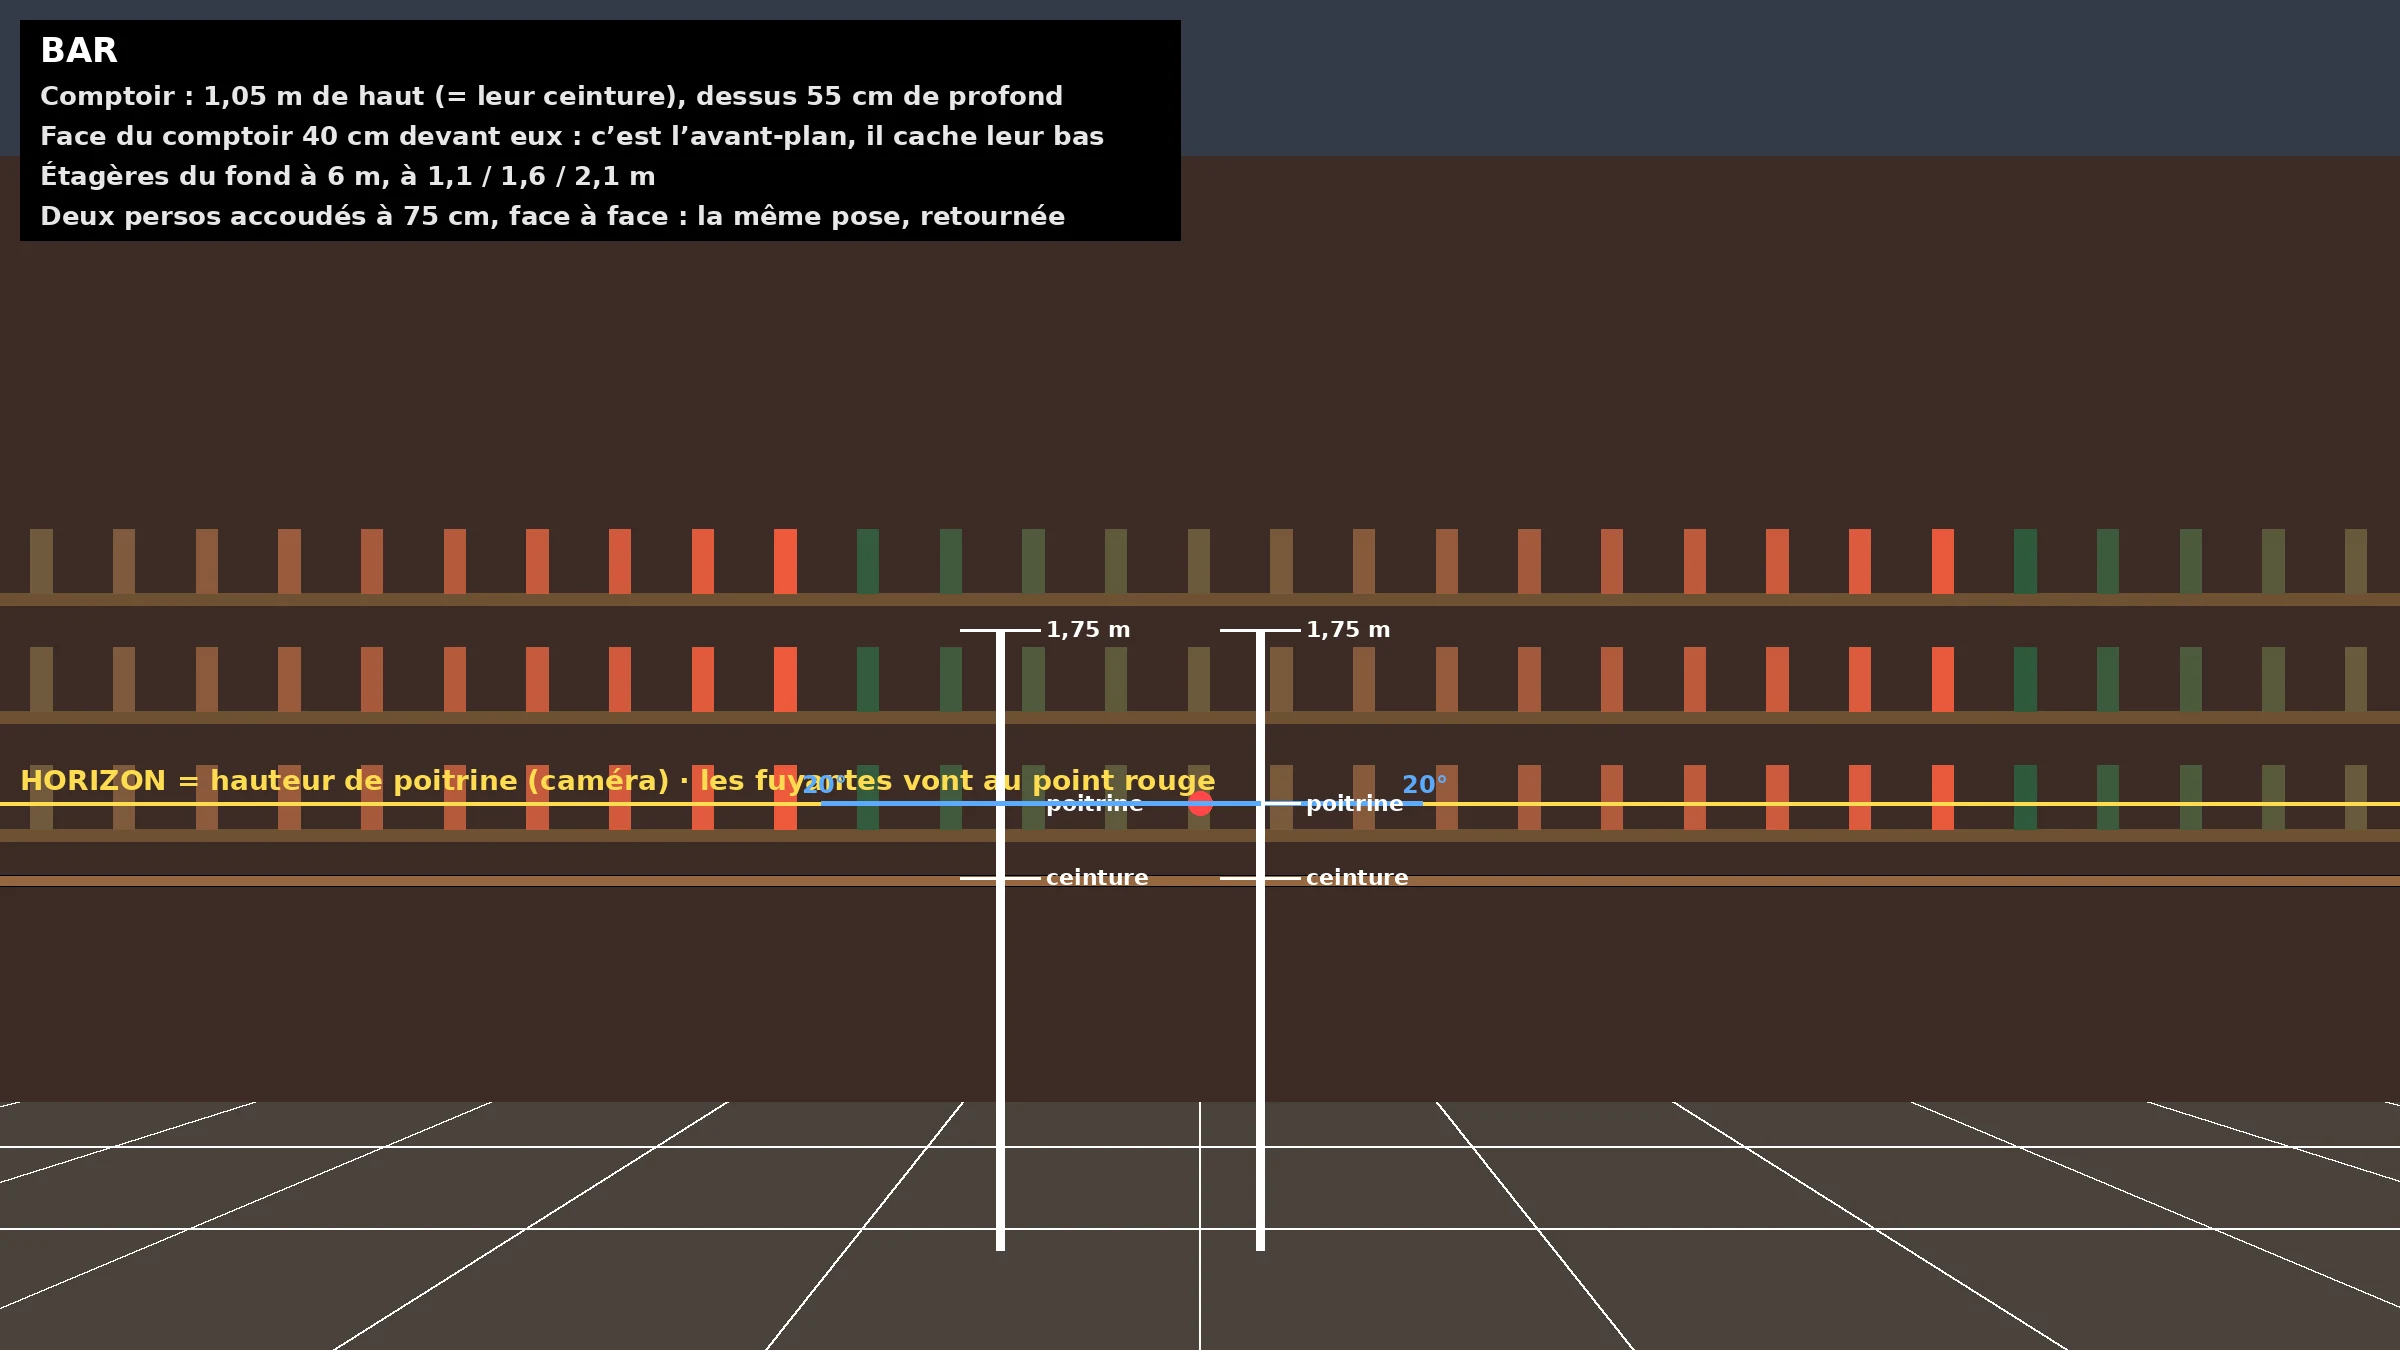
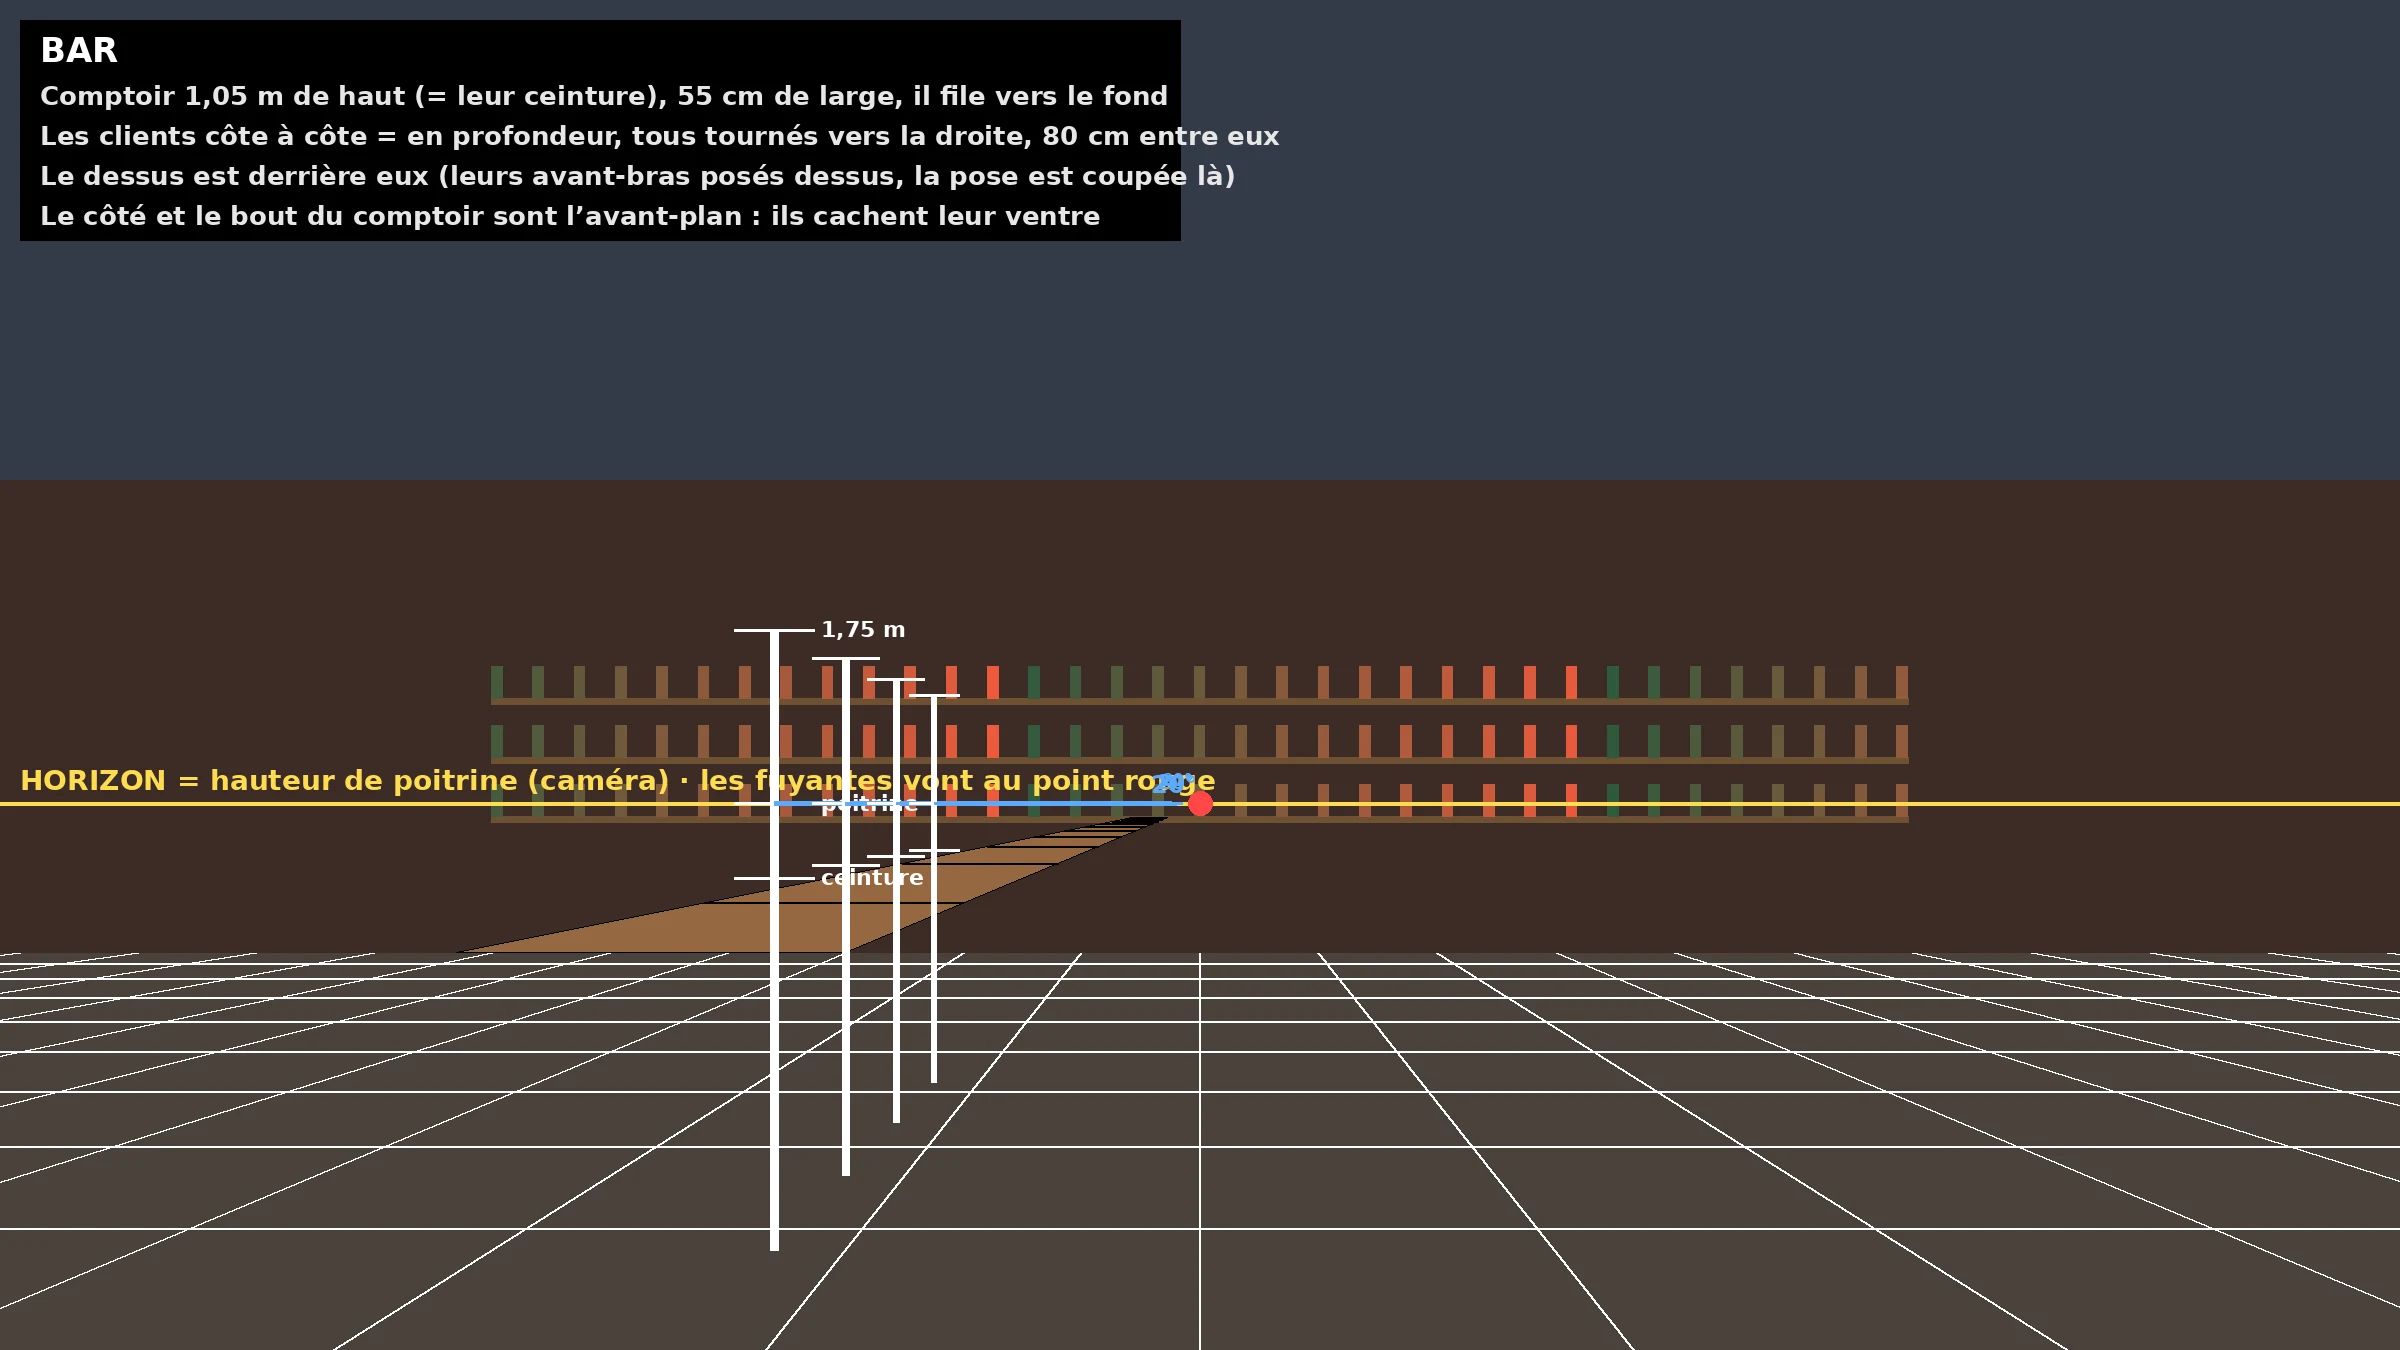
Guide du bar refait : le comptoir file vers le fond à gauche, les clients côte à côte en profondeur (80 cm entre eux, plus petits au loin), tous tournés vers la droite ; le dessus du comptoir derrière eux (leurs avant-bras posés dessus), son côté et son bout en avant-plan cachent leur ventre. Les re
Claude-Session: https://claude.ai/code/session_0111jBtqckCfzF72p3rEMaLs

diff --git a/ref/guides/guides.py b/ref/guides/guides.py
@@ -30,13 +30,16 @@ def guides(d, title, notes, people=()):
   d.line([0, HZ, W, HZ], fill=(255, 220, 80, 230), width=4)
   d.text((20, HZ - 40), 'HORIZON = hauteur de poitrine (caméra) · les fuyantes vont au point rouge', font=fnt(28), fill=(255, 220, 80))
   d.ellipse([CX - 12, HZ - 12, CX + 12, HZ + 12], fill=RED)
-  for (x, face) in people:                    # where they stand: 1.75 m, chest, belt, and their 20° look
-    d.rectangle([x - 4, Y0 - HCH, x + 4, Y0], fill=(255, 255, 255, 90))
+  for pp in people:                           # where they stand: 1.75 m, chest, belt, and their 20° look
+    x, face, dd = (pp[0], pp[1], D0) if len(pp) == 2 else pp   # (px on the 4 m plane, face) or (world x m, face, depth m)
+    wx = X(x, D0) if len(pp) == 2 else x; sx, fy = P(wx, 0, dd); hh = HCH * D0 / dd; k = D0 / dd
+    d.rectangle([sx - 4 * k, fy - hh, sx + 4 * k, fy], fill=(255, 255, 255, 90))
     for frac, lab in ((1, '1,75 m'), (0.72, 'poitrine'), (0.6, 'ceinture')):
-      y = Y0 - HCH * frac; d.line([x - 40, y, x + 40, y], fill=(255, 255, 255, 160), width=3); d.text((x + 46, y - 14), lab, font=fnt(22), fill=(255, 255, 255, 200))
-    wx = X(x, D0); sgn = 1 if face == 'r' else -1
-    tip = P(wx + sgn * 1.2 * math.cos(math.radians(20)), 1.26, D0 - 1.2 * math.sin(math.radians(20)))
-    d.line([P(wx, 1.26, D0), tip], fill=BLUE + (230,), width=5); d.text((tip[0] - 20, tip[1] - 34), '20°', font=fnt(24), fill=BLUE)
+      y = fy - hh * frac; d.line([sx - 40 * k, y, sx + 40 * k, y], fill=(255, 255, 255, 160), width=3)
+      if len(pp) == 2 or dd == people[0][2]: d.text((sx + 46 * k, y - 14), lab, font=fnt(22), fill=(255, 255, 255, 200))
+    sgn = 1 if face == 'r' else -1
+    tip = P(wx + sgn * 1.2 * math.cos(math.radians(20)), 1.26, dd - 1.2 * math.sin(math.radians(20)))
+    d.line([P(wx, 1.26, dd), tip], fill=BLUE + (230,), width=max(2, int(5 * k))); d.text((tip[0] - 20, tip[1] - 34), '20°', font=fnt(int(24 * k)), fill=BLUE)
   d.rectangle([20, 20, 1180, 40 + 40 * (len(notes) + 1)], fill=(0, 0, 0, 150))
   d.text((40, 30), title, font=fnt(34), fill=(255, 255, 255))
   for i, n in enumerate(notes): d.text((40, 80 + 40 * i), n, font=fnt(26), fill=(230, 230, 230))
@@ -79,19 +82,27 @@ f.line([P(sx - 0.3, 0.9, D0 - 0.6), P(sx + 2.8, 1.75 + 0.9, D0 - 0.6), P(sx + 4,
 guides(d, 'ESCALIER', ['Marches : 17,5 cm de haut × 28 cm de profond, 10 marches = 1,75 m', 'Escalier parallèle à l’image, au plan des persos (4 m), 1,2 m de large', 'Rampe à 90 cm au-dessus du nez des marches (avant-plan)', 'Palier en haut : 1,75 m'], people=[(700, 'r')])
 scenes['g_stairs'] = save('escalier', bg, fg)
 
-# 3 · the bar: counter 1,05 m high (= their belt), its front 40 cm in front of them, back bar 2 m behind
+# 3 · the bar: the counter runs into the depth on the left, the patrons in a row behind it, side by side (each 80 cm
+# further), facing right (toward the camera's side): the counter is between the camera and their bellies. Its top in the
+# back (their forearms rest on it, the poses are cut there), its side and near end in front of them
+BAR = (-1.05, -0.5, 2.0, 22)                 # x left, x right, from depth, to depth (m); top at 1.05 m
 bg, d = base(); grid(d)
-d.polygon([P(-12, 0, 6), P(12, 0, 6), P(12, 4, 6), P(-12, 4, 6)], fill=(60, 44, 38, 255))
-for y in (1.1, 1.6, 2.1):
-  d.rectangle(rr(P(-6, y + 0.05, 6), P(6, y, 6)), fill=(110, 80, 50))
+d.polygon([P(-12, 0, 12), P(12, 0, 12), P(12, 4, 12), P(-12, 4, 12)], fill=(60, 44, 38, 255))
+for y in (1.1, 1.6, 2.1):                     # the back bar, far end
+  d.rectangle(rr(P(-6, y + 0.05, 12), P(6, y, 12)), fill=(110, 80, 50))
   for x in [i * 0.35 - 6 for i in range(35)]:
-    d.rectangle(rr(P(x, y + 0.32, 6), P(x + 0.09, y + 0.05, 6)), fill=((70 + int(x * 40)) % 200 + 40, 90, 60))
-d.polygon([P(-12, 1.05, D0 - 0.4), P(12, 1.05, D0 - 0.4), P(12, 1.05, D0 + 0.15), P(-12, 1.05, D0 + 0.15)], fill=(150, 104, 66, 255), outline=(0, 0, 0, 200))
+    d.rectangle(rr(P(x, y + 0.32, 12), P(x + 0.09, y + 0.05, 12)), fill=((70 + int(x * 40)) % 200 + 40, 90, 60))
+x0, x1, d0, d1 = BAR
+d.polygon([P(x0, 1.05, d0), P(x1, 1.05, d0), P(x1, 1.05, d1), P(x0, 1.05, d1)], fill=(150, 104, 66, 255), outline=(0, 0, 0, 200))
+for dd in range(3, 22, 2): d.line([P(x0, 1.05, dd), P(x1, 1.05, dd)], fill=(0, 0, 0, 50), width=2)
 fg = Image.new('RGBA', (W, H)); f = ImageDraw.Draw(fg)
-f.polygon([P(-12, 0, D0 - 0.4), P(12, 0, D0 - 0.4), P(12, 1.05, D0 - 0.4), P(-12, 1.05, D0 - 0.4)], fill=(96, 62, 40, 255))
-f.line([P(-12, 1.0, D0 - 0.4), P(12, 1.0, D0 - 0.4)], fill=(60, 36, 22, 255), width=8)
-guides(d, 'BAR', ['Comptoir : 1,05 m de haut (= leur ceinture), dessus 55 cm de profond', 'Face du comptoir 40 cm devant eux : c’est l’avant-plan, il cache leur bas', 'Étagères du fond à 6 m, à 1,1 / 1,6 / 2,1 m', 'Deux persos accoudés à 75 cm, face à face : la même pose, retournée'], people=[(1000, 'r'), (1260, 'l')])
+f.polygon([P(x1, 0, d0), P(x1, 0, d1), P(x1, 1.05, d1), P(x1, 1.05, d0)], fill=(96, 62, 40, 255), outline=(40, 24, 14, 255))   # its side
+f.polygon([P(x0, 0, d0), P(x1, 0, d0), P(x1, 1.05, d0), P(x0, 1.05, d0)], fill=(80, 50, 32, 255), outline=(40, 24, 14, 255))   # its near end
+f.line([P(x1, 1.0, d0), P(x1, 1.0, d1)], fill=(60, 36, 22, 255), width=6)
+BAR_PEOPLE = [(-1.2, 'r', 4.0 + 0.8 * i) for i in range(4)]
+guides(d, 'BAR', ['Comptoir 1,05 m de haut (= leur ceinture), 55 cm de large, il file vers le fond', 'Les clients côte à côte = en profondeur, tous tournés vers la droite, 80 cm entre eux', 'Le dessus est derrière eux (leurs avant-bras posés dessus, la pose est coupée là)', 'Le côté et le bout du comptoir sont l’avant-plan : ils cachent leur ventre'], people=BAR_PEOPLE)
 scenes['g_bar'] = save('bar', bg, fg)
+print('bar people', [(round(P(x, 0, dd)[0]), round(P(x, 0, dd)[1]), round(HCH * D0 / dd)) for x, _, dd in BAR_PEOPLE])
 
 # 4 · the campfire: logs 45 cm high, a log 30 cm in front of each (foreground), the fire between them
 bg, d = base((54, 62, 44), (22, 26, 40)); grid(d)
